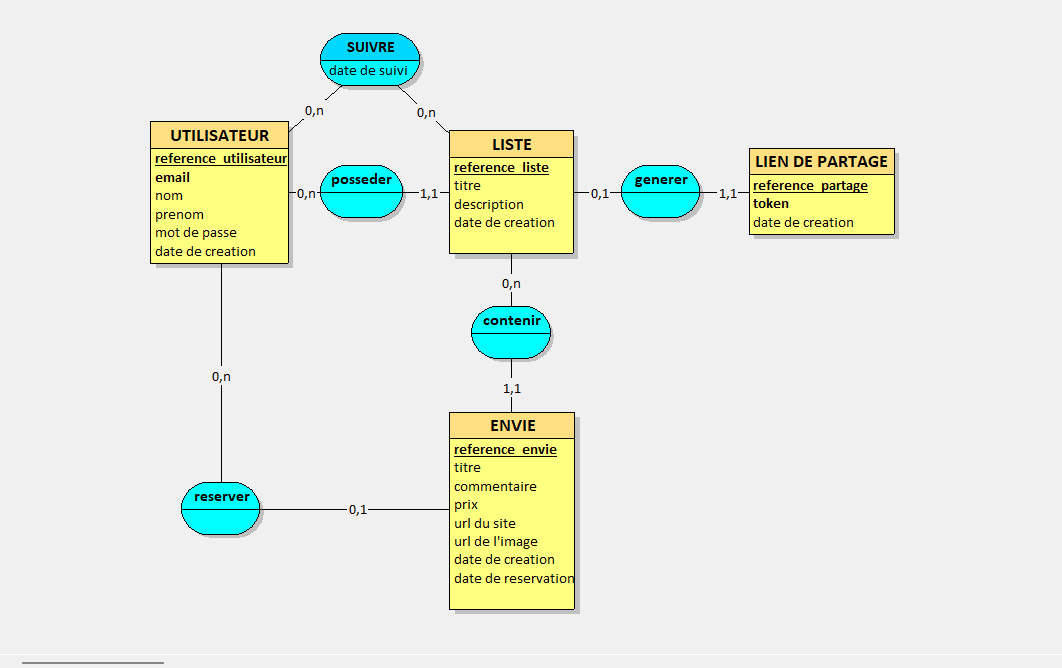
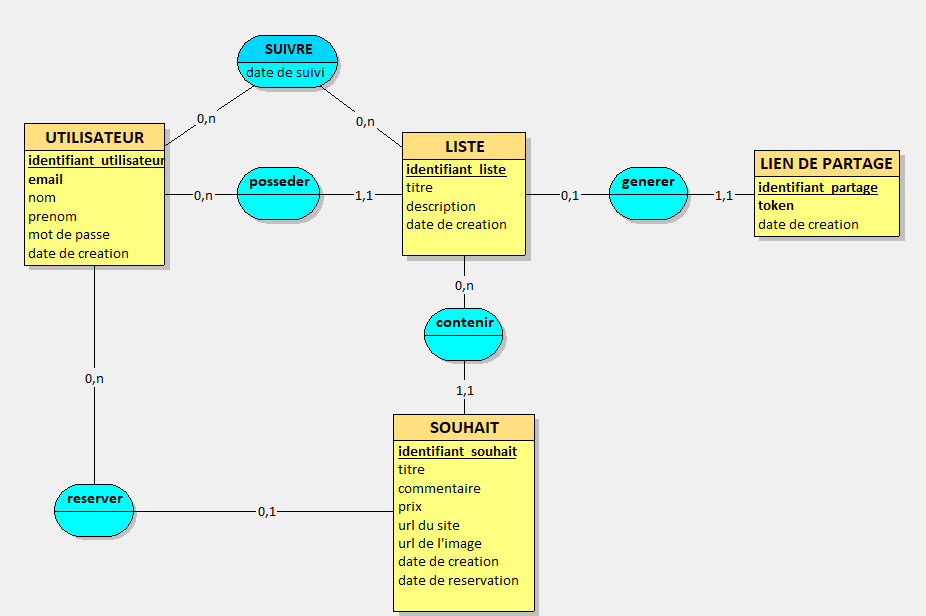
docs: update terminology from wish/envie to souhait and refresh diagrams

diff --git a/docs/SPECS.md b/docs/SPECS.md
@@ -34,14 +34,14 @@ En tant que Visiteur, je veux créer mon compte afin de commencer à organiser m
 
 ### User Story :
 
-En tant que Membre, je veux pouvoir créer, consulter, modifier ou supprimer une liste thématique afin de centraliser mes envies de cadeaux selon les événements.
+En tant que Membre, je veux pouvoir créer, consulter, modifier ou supprimer une liste thématique afin de centraliser mes souhaits de cadeaux selon les événements.
 
 **Scénario 1 : Création d'une nouvelle liste**
 
     Étant donné que je suis connecté à mon espace membre
     Lorsque je crée une liste intitulée "Noël 2026" avec une description optionnelle
     Alors la liste est enregistrée et associée à mon profil
-    Et j'accède directement à l'espace de cette liste pour y ajouter mes envies
+    Et j'accède directement à l'espace de cette liste pour y ajouter mes souhaits
 
 **Scénario 2 : Modification d'une liste existante**
 
@@ -54,7 +54,7 @@ En tant que Membre, je veux pouvoir créer, consulter, modifier ou supprimer une
 
     Étant donné que je consulte ma liste "Noël en Famille"
     Lorsque je demande la suppression définitive de cette liste et que je confirme mon choix
-    Alors la liste et l'ensemble des envies associées sont supprimées de façon atomique
+    Alors la liste et l'ensemble des souhaits associés sont supprimés de façon atomique
     Et je suis redirigé vers mon tableau de bord avec une confirmation visuelle
 
 **Scénario 4 : Échec de création/modification pour titre invalide**
@@ -72,23 +72,23 @@ En tant que Membre, je veux pouvoir créer, consulter, modifier ou supprimer une
 
 En tant que Membre, je veux ajouter manuellement une idée de cadeau à ma liste avec ses caractéristiques (titre, prix estimatif, commentaire, lien marchand, image) afin de communiquer mes souhaits à mes proches.
 
-**Scénario 1 : Ajout manuel d'une envie avec détails complets**
+**Scénario 1 : Ajout manuel d'un souhait avec détails complets**
 
     Étant donné que je suis connecté et sur la page de ma liste "Noël 2026"
     Lorsque je saisis manuellement un titre "Livre SF", un commentaire "Édition reliée", un prix estimé de "25.00" et l'URL du produit
-    Alors l'envie est enregistrée en base de données et rattachée à ma liste
+    Alors le souhait est enregistré en base de données et rattaché à ma liste
     Et elle apparaît immédiatement sur l'affichage de ma liste
 
 **Scénario 2 : Ajout minimaliste réussi (champs obligatoires uniquement)**
 
     Étant donné que je suis connecté sur la page de ma liste
     Lorsque je saisis uniquement le titre obligatoire "Écharpe en laine" sans renseigner le prix ni le lien
-    Alors l'envie est créée avec succès avec les champs optionnels à NULL
+    Alors le souhait est créé avec succès avec les champs optionnels à NULL
     Et elle s'affiche correctement sur ma liste
 
 **Scénario 3 : Échec d'ajout pour données invalides**
 
-    Étant donné que je tente d'ajouter une envie avec un titre vide ou un prix négatif
+    Étant donné que je tente d'ajouter un souhait avec un titre vide ou un prix négatif
     Lorsque je valide le formulaire d'ajout
     Alors le système bloque la création et affiche un message d'erreur contextuel
     Et aucune donnée n'est persistée en base de données
@@ -120,8 +120,8 @@ En tant que Visiteur public (invité non connecté), je veux pouvoir consulter u
 
     Étant donné que je dispose d'une URL de partage avec un token valide
     Lorsque j'accède à la page de la liste
-    Alors la liste vitrine s'affiche en lecture seule avec le titre, la description et les envies
-    Et chaque envie affiche ses informations (titre, photo, prix estimatif, lien marchand, commentaire)
+    Alors la liste vitrine s'affiche en lecture seule avec le titre, la description et les souhaits
+    Et chaque souhait affiche ses informations (titre, photo, prix estimatif, lien marchand, commentaire)
     Et aucun badge de statut n'est affiché pour les articles non réservés afin de conserver une interface épurée
     Et seul un badge visuel "Réservé" est présent sur les articles ayant déjà été réservés
     Et l'identité des réservants reste masquée pour préserver la discrétion
@@ -136,9 +136,9 @@ En tant que Visiteur public (invité non connecté), je veux pouvoir consulter u
 **Scénario 3 : Tentative d'action de réservation par un visiteur non connecté**
 
     Étant donné que je consulte une liste partagée en tant que visiteur anonyme
-    Lorsque je clique sur le bouton "Réserver ce cadeau" sur une envie non réservée
+    Lorsque je clique sur le bouton "Réserver ce cadeau" sur un souhait non réservé
     Alors le système affiche une modale d'invitation à la connexion ou à la création de compte
-    Et mémorise l'envie ciblée pour finaliser la réservation immédiatement après authentification
+    Et mémorise le souhait ciblé pour finaliser la réservation immédiatement après authentification
 
 ---
 
@@ -146,33 +146,33 @@ En tant que Visiteur public (invité non connecté), je veux pouvoir consulter u
 
 ### User Story :
 
-En tant qu'Utilisateur connecté (Membre), je veux pouvoir réserver une envie disponible sur la liste partagée d'un proche afin d'indiquer aux autres membres que ce cadeau est pris et éviter les doublons, tout en préservant la surprise pour le créateur de la liste.
+En tant qu'Utilisateur connecté (Membre), je veux pouvoir réserver un souhait disponible sur la liste partagée d'un proche afin d'indiquer aux autres membres que ce cadeau est pris et éviter les doublons, tout en préservant la surprise pour le créateur de la liste.
 
 **Scénario 1 : Réservation réussie d'un cadeau disponible**
 
     Étant donné que je suis authentifié sur Famylist
     Et que je consulte la liste partagée d'un tiers (dont je ne suis pas le propriétaire)
-    Et que l'envie ciblée n'est pas encore réservée (user_id IS NULL et reserved_at IS NULL)
+    Et que le souhait ciblé n'est pas encore réservé (user_id IS NULL et reserved_at IS NULL)
     Lorsque je clique sur "Réserver ce cadeau" et que je confirme
-    Alors l'envie passe à l'état réservé
+    Alors le souhait passe à l'état réservé
     Et mon identifiant utilisateur (`user_id`) et la date/heure courante (`reserved_at`) sont enregistrés en base
-    Et l'envie m'affiche le badge "Réservé par vous" avec l'action "Annuler ma réservation"
-    Et pour les autres contributeurs (visiteurs et membres), l'envie affiche le badge "Réservé" sans mon nom
+    Et le souhait m'affiche le badge "Réservé par vous" avec l'action "Annuler ma réservation"
+    Et pour les autres contributeurs (visiteurs et membres), le souhait affiche le badge "Réservé" sans mon nom
     Et pour le propriétaire de la liste, aucun badge de réservation n'apparaît (surprise intacte)
 
 **Scénario 2 : Tentative de réservation concurrente (conflit de réservation)**
 
-    Étant donné que je consulte une envie sans badge (non réservée au chargement)
-    Mais qu'un autre utilisateur a validé la réservation de cette envie une fraction de seconde avant moi
+    Étant donné que je consulte un souhait sans badge (non réservé au chargement)
+    Mais qu'un autre utilisateur a validé la réservation de ce souhait une fraction de seconde avant moi
     Lorsque ma requête de réservation est traitée par le serveur
     Alors le serveur rejette ma transaction (conflit HTTP 409)
     Et l'interface m'avertit par un message : "Ce cadeau vient tout juste d'être réservé par un autre proche"
-    Et l'affichage de l'envie est actualisé avec l'apparition du badge "Réservé"
+    Et l'affichage du souhait est actualisé avec l'apparition du badge "Réservé"
 
 **Scénario 3 : Interdiction d'auto-réservation sur sa propre liste**
 
     Étant donné que je suis le créateur et propriétaire de la liste
-    Lorsque je visualise mes propres envies
+    Lorsque je visualise mes propres souhaits
     Alors le bouton "Réserver ce cadeau" n'est pas disponible (ou désactivé)
     Et le système rejette toute tentative de requête API de réservation émise par le propriétaire (HTTP 403 Forbidden)
 
@@ -187,7 +187,7 @@ En tant qu'Utilisateur ayant réservé un cadeau, je veux pouvoir annuler ma ré
 **Scénario 1 : Annulation réussie par l'auteur de la réservation**
 
     Étant donné que je suis authentifié
-    Et que j'ai préalablement réservé l'envie (wishes.user_id = mon_id)
+    Et que j'ai préalablement réservé le souhait (wishes.user_id = mon_id)
     Lorsque je clique sur "Annuler ma réservation" et que je confirme
     Alors la clé étrangère `user_id` et l'horodatage `reserved_at` sont réinitialisés à NULL
     Et le badge "Réservé" disparaît instantanément de la carte

diff --git a/docs/ARCHITECTURE.md b/docs/ARCHITECTURE.md
@@ -58,7 +58,7 @@ L'architecture de l'application intègre des pratiques d'éco-conception visant 
 
 - **Interface sobre :** Une interface épurée qui utilise des icônes vectorielles (SVG) légères plutôt que des images iconographiques lourdes. Le design évite les animations CSS complexes qui sollicitent inutilement le processeur.
 
-- **Nettoyage automatique des données obsolètes :** Une liste d'envies pour un anniversaire ou Noël perd de son utilité après l'événement. Un principe de sobriété consiste à mettre en place une stratégie de cycle de vie des données : les listes "expirées" depuis longtemps ou les images de cadeaux supprimés sont automatiquement nettoyées par une tâche planifiée (Cron job)
+- **Nettoyage automatique des données obsolètes :** Une liste de souhaits pour un anniversaire ou Noël perd de son utilité après l'événement. Un principe de sobriété consiste à mettre en place une stratégie de cycle de vie des données : les listes "expirées" depuis longtemps ou les images de cadeaux supprimés sont automatiquement nettoyées par une tâche planifiée (Cron job)
 
 ## Stack
 

diff --git a/docs/recherche-jtbd.md b/docs/recherche-jtbd.md
@@ -38,7 +38,7 @@ Extrait pertinent : "You can only add Amazon stuff, you can't include anything o
 
 ### Source 4 : Avis des proches
 
-Ma famille et moi utilisons actuellement le site Listy.com pour gérer nos listes d'envies. En discutant avec eux de l'utilisation au quotidien, ils m'ont fait part de plusieurs points d'amélioration qu'ils aimeraient voir dans une nouvelle solution :
+Ma famille et moi utilisons actuellement le site Listy.com pour gérer nos listes de souhaits. En discutant avec eux de l'utilisation au quotidien, ils m'ont fait part de plusieurs points d'amélioration qu'ils aimeraient voir dans une nouvelle solution :
 
 > - Seules les personnes qui réservent peuvent voir la réservation, pas celui à qui on veut offrir le cadeau
 > - Quand on réserve, on ne voit pas le nom de ceux qui ont réservé, tout est anonyme pour tout le monde

diff --git a/docs/PRD.md b/docs/PRD.md
@@ -4,7 +4,7 @@
 
 **L’organisation de cadeaux (Noël, anniversaires...) souffre de plusieurs problèmes récurrents :**
 
-- Le désordre des informations : Les idées de cadeaux par SMS, emails ou de vive voix. Résultat : on finit toujours par perdre l'info ou par oublier une envie importante.
+- Le désordre des informations : Les idées de cadeaux par SMS, emails ou de vive voix. Résultat : on finit toujours par perdre l'info ou par oublier un souhait important.
 - Le risque de doublons : Éviter d’acheter le même cadeau à quelqu’un à cause d’un manque d’organisation.
 - La barrière technique : Beaucoup d'outils actuels sont trop chargés ou trop portés sur la pub. Cela décourage souvent les membres de la famille qui ne sont pas à l’aise avec l’informatique.
 

diff --git a/docs/DESIGN.md b/docs/DESIGN.md
@@ -50,5 +50,5 @@ L'interface repose sur des **Design Tokens** (variables sémantiques réutilisab
 | **Espacement**   | `--spacing-page`   | Marge extérieure de l'écran (adaptatif Desktop / Mobile)   |
 | **Espacement**   | `--spacing-gap`    | Espace entre les cartes de la grille                       |
 | **Arrondi**      | `--radius-btn`     | Rayon de courbure des boutons et champs de formulaire      |
-| **Arrondi**      | `--radius-card`    | Rayon de courbure des cartes de listes et d'envies         |
+| **Arrondi**      | `--radius-card`    | Rayon de courbure des cartes de listes et de souhaits      |
 | **Arrondi**      | `--radius-modal`   | Rayon de courbure des fenêtres modales                     |
